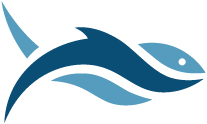
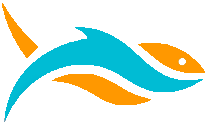
new switch button

diff --git a/client_side_app/index.html b/client_side_app/index.html
@@ -12,8 +12,7 @@
     <script type="text/javascript" src="assets/vendor/csvtools.js"></script>
     <link rel="stylesheet" href="assets/vendor/bootstrap-3.3.2-dist/css/bootstrap.min.css">
     <script src="assets/vendor/bootstrap-3.3.2-dist/js/bootstrap.min.js"></script>
-    <link href="assets/vendor/bootstrap-switch.css" rel="stylesheet">
-    <script src="assets/vendor/bootstrap-switch.js"></script>
+    <link href="assets/vendor/css-toggle-switch-source/css/style.css" rel="stylesheet">
     <script src="assets/vendor/d3.js"></script>
 
     <!-- Scripts -->
@@ -29,16 +28,23 @@
 <body>
 
     <div id="navbar">
-      <img id="logoImg" src="assets/img/logo.png" height="26" width="50">
+      <img id="logoImg" src="assets/img/logoNew.png" height="26" width="50">
       Grouper
       <img id="fishImg" src="assets/img/fish.png" height="35" width="58">
     </div>
 
     <div id="filterContainer">
-         <div class="filterTypeTitle">
-             Data Labels:
-         </div>
-         Number  <input type="checkbox" name="toggle" value="name">  Name
+          <div class="filterTypeTitle">
+            Data Labels:
+          </div>
+          <div>
+            Number  
+            <div class="switch">
+              <input id="cmn-toggle-6" class="cmn-toggle cmn-toggle-round-flat" type="checkbox">
+              <label for="cmn-toggle-6"></label>
+            </div> 
+            Name
+          </div>
 
       <div class="filterTypeTitle">
         Data Filters:

diff --git a/client_side_app/js/filter.js b/client_side_app/js/filter.js
@@ -1,14 +1,6 @@
 $(document).ready(function() {
-    $("[name='toggle']").bootstrapSwitch({
-      size: 'small',
-      onText: '',
-      offText: '',
-      onColor: 'info',
-      offColor: 'info'
-    });
-
     for (var i=0; i<filters.length; i++) {
-        if (filters[i] != 'name') {
+        if (filters[i] != 'name' && filters[i] != 'group') {
             $('#filters').append('<li>' +
                 '<input class="filter_cat" type="radio" name="filters" value="' + filters[i] + '">' + filters[i].split('_').map(function(elem) {return capitalize(elem)}).join(' ') + '<br>' +
                 '</li>');
@@ -29,8 +21,8 @@ $(document).ready(function() {
         $(this).parent().append(color_map);
     })
 
-    $('input[name="toggle"]').on('switchChange.bootstrapSwitch', function(event, state) {
-        if (state) {
+    $('.switch').on('click', function(event, state) {
+        if (event.target.checked) {
             $('.bubble').each(function() {
                 var id = this.id.split('_')[1];
                 $(this).children().html(students[id]['name']);
@@ -57,7 +49,7 @@ $(document).ready(function() {
         }
     });
 
-    $('input[value="group"').click();
+    $('input[value="sports_team"').click();
 
 
 });

diff --git a/client_side_app/style/style.css b/client_side_app/style/style.css
@@ -15,6 +15,18 @@ input[type='radio'] {
     margin-right: 5px;
 }
 
+.switch {
+    display: inline-block;
+}
+
+.switch > label {
+    margin-bottom: 0px !important;
+}
+
+div > .switch {
+    vertical-align: middle;
+}
+
 #bubbleContainer {
     position: absolute;
     bottom: 20px;
@@ -22,6 +34,7 @@ input[type='radio'] {
     height: calc(100% - 90px);
     width: calc(100% - 308px);
     overflow: hidden;
+    border: 1px solid #ccc;
 }
 
 #navbar {
@@ -30,7 +43,7 @@ input[type='radio'] {
     padding: 5px 15px;
     line-height: 40px;
     font-weight: 300;
-    color: #FFA000;
+    color: #00BCD4;
     border-bottom: 1px solid #ccc;
 }
 
